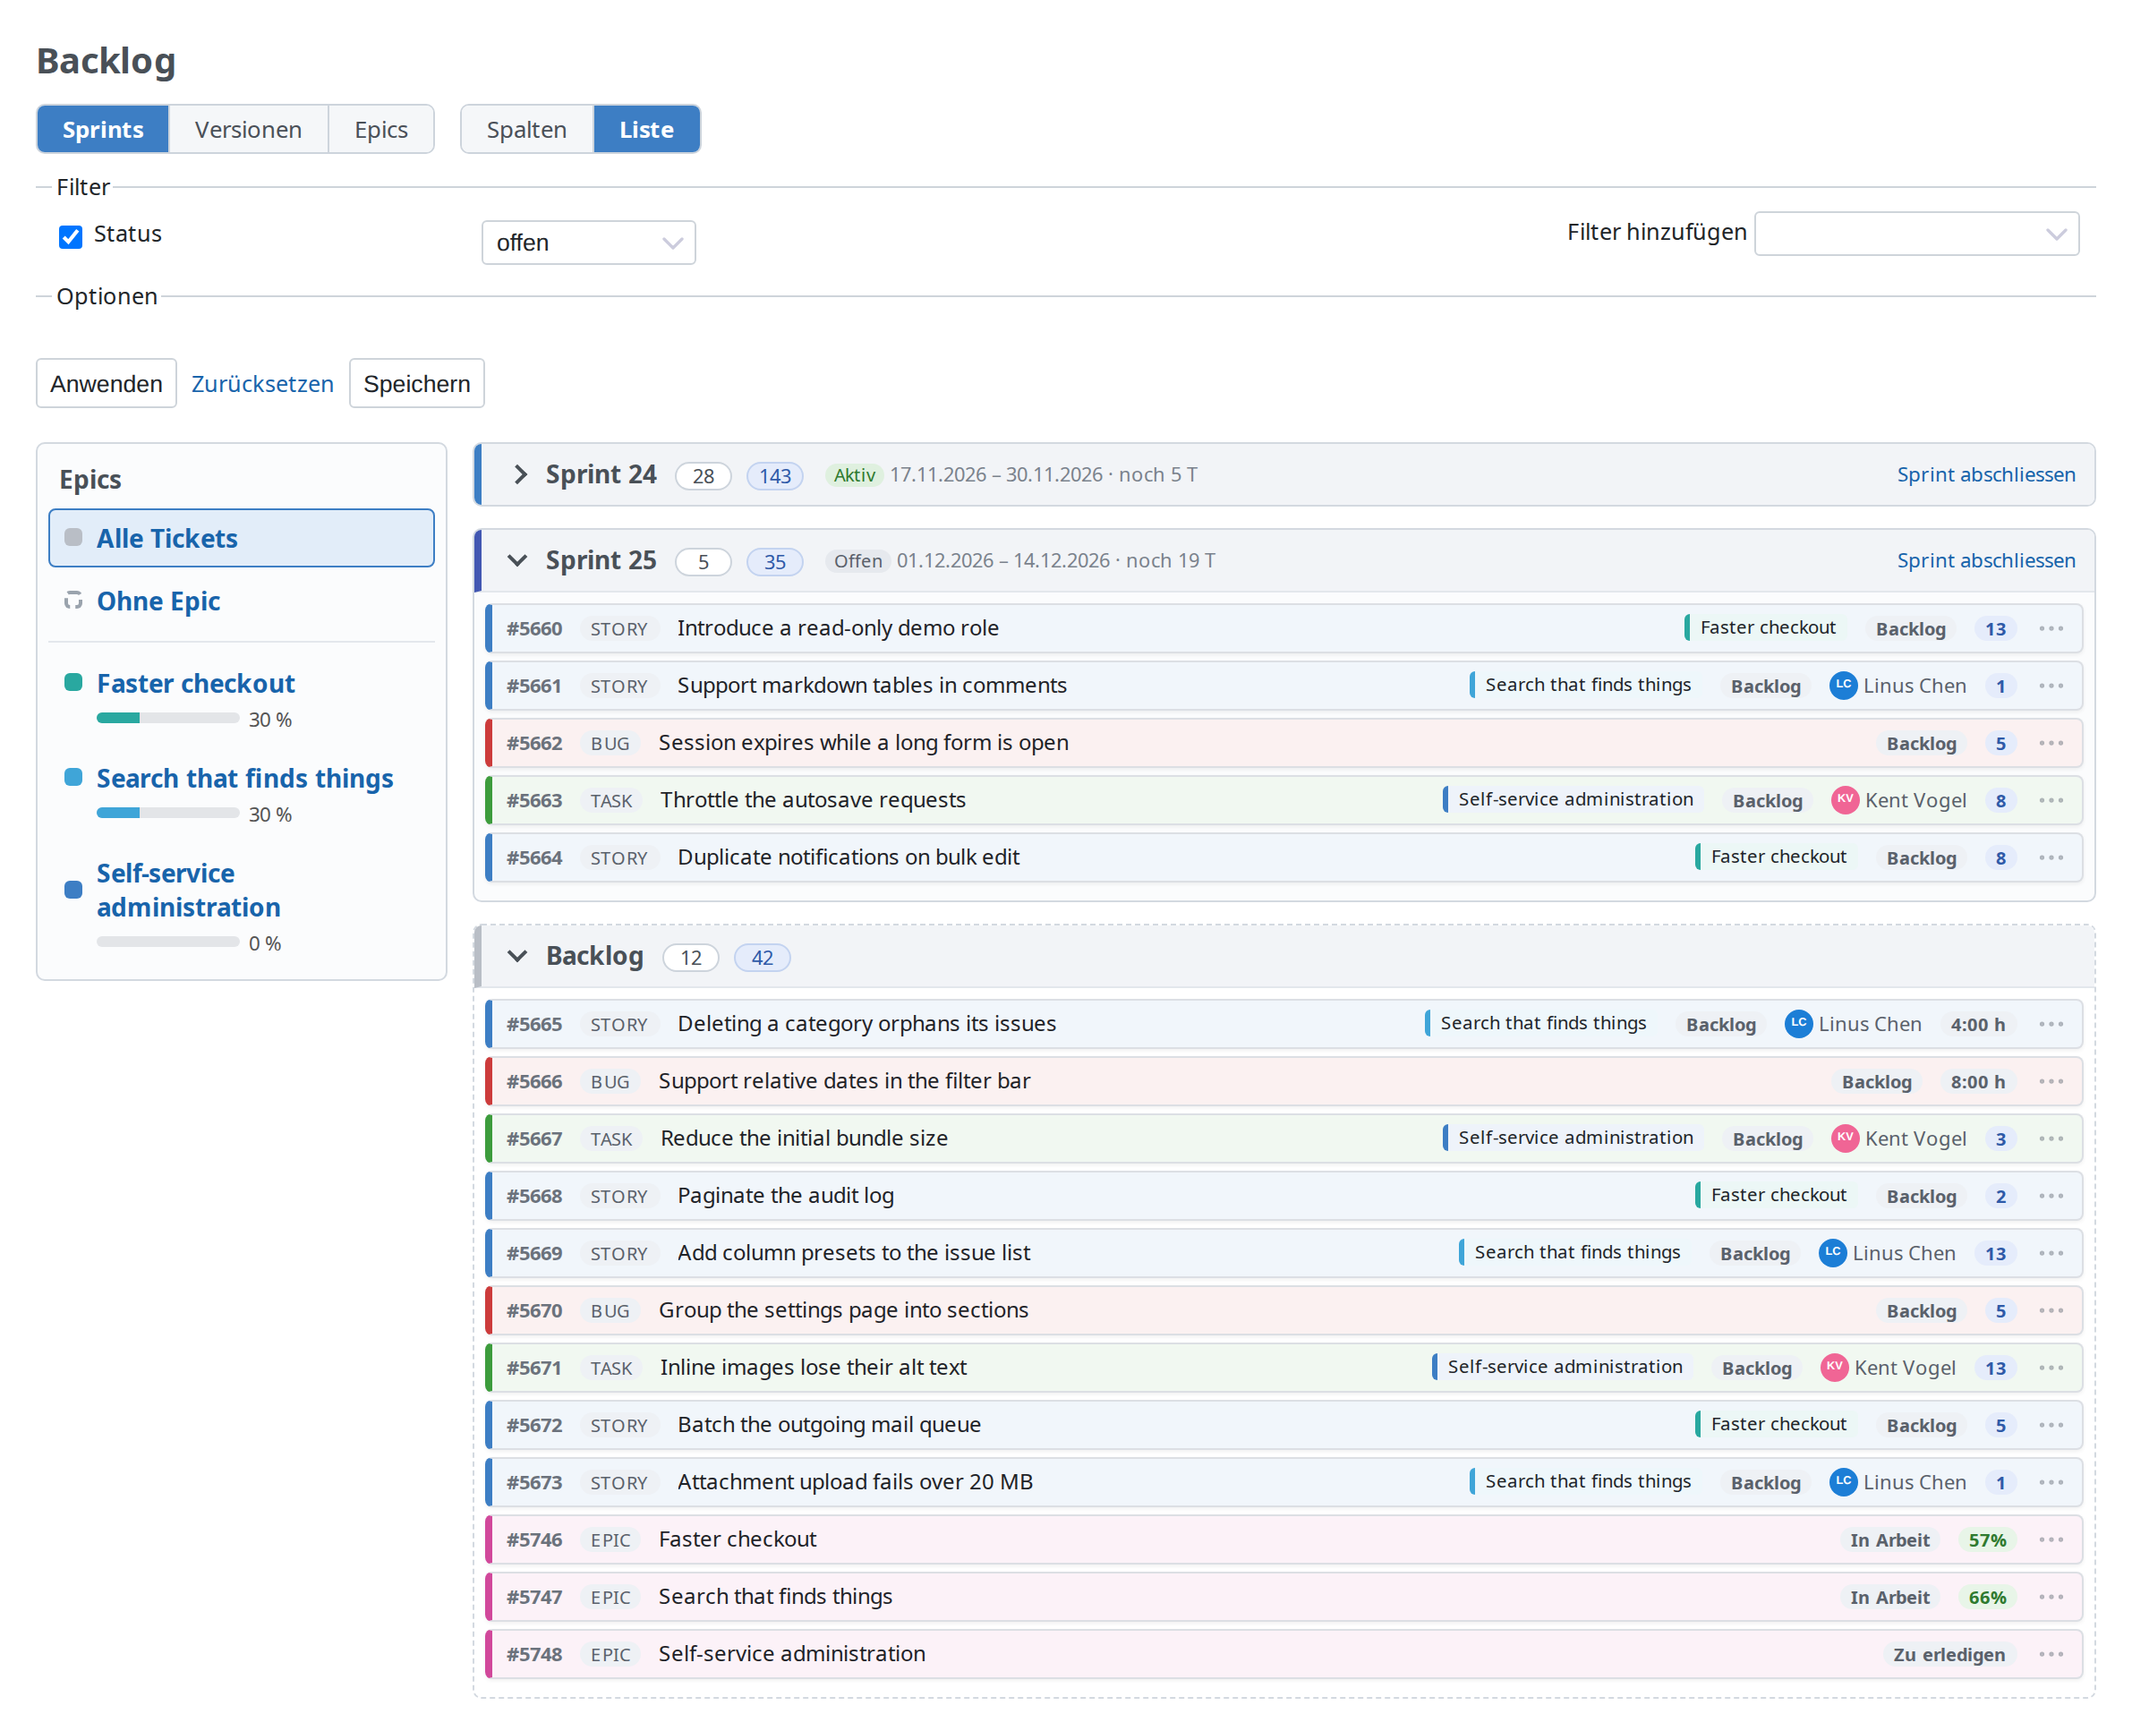
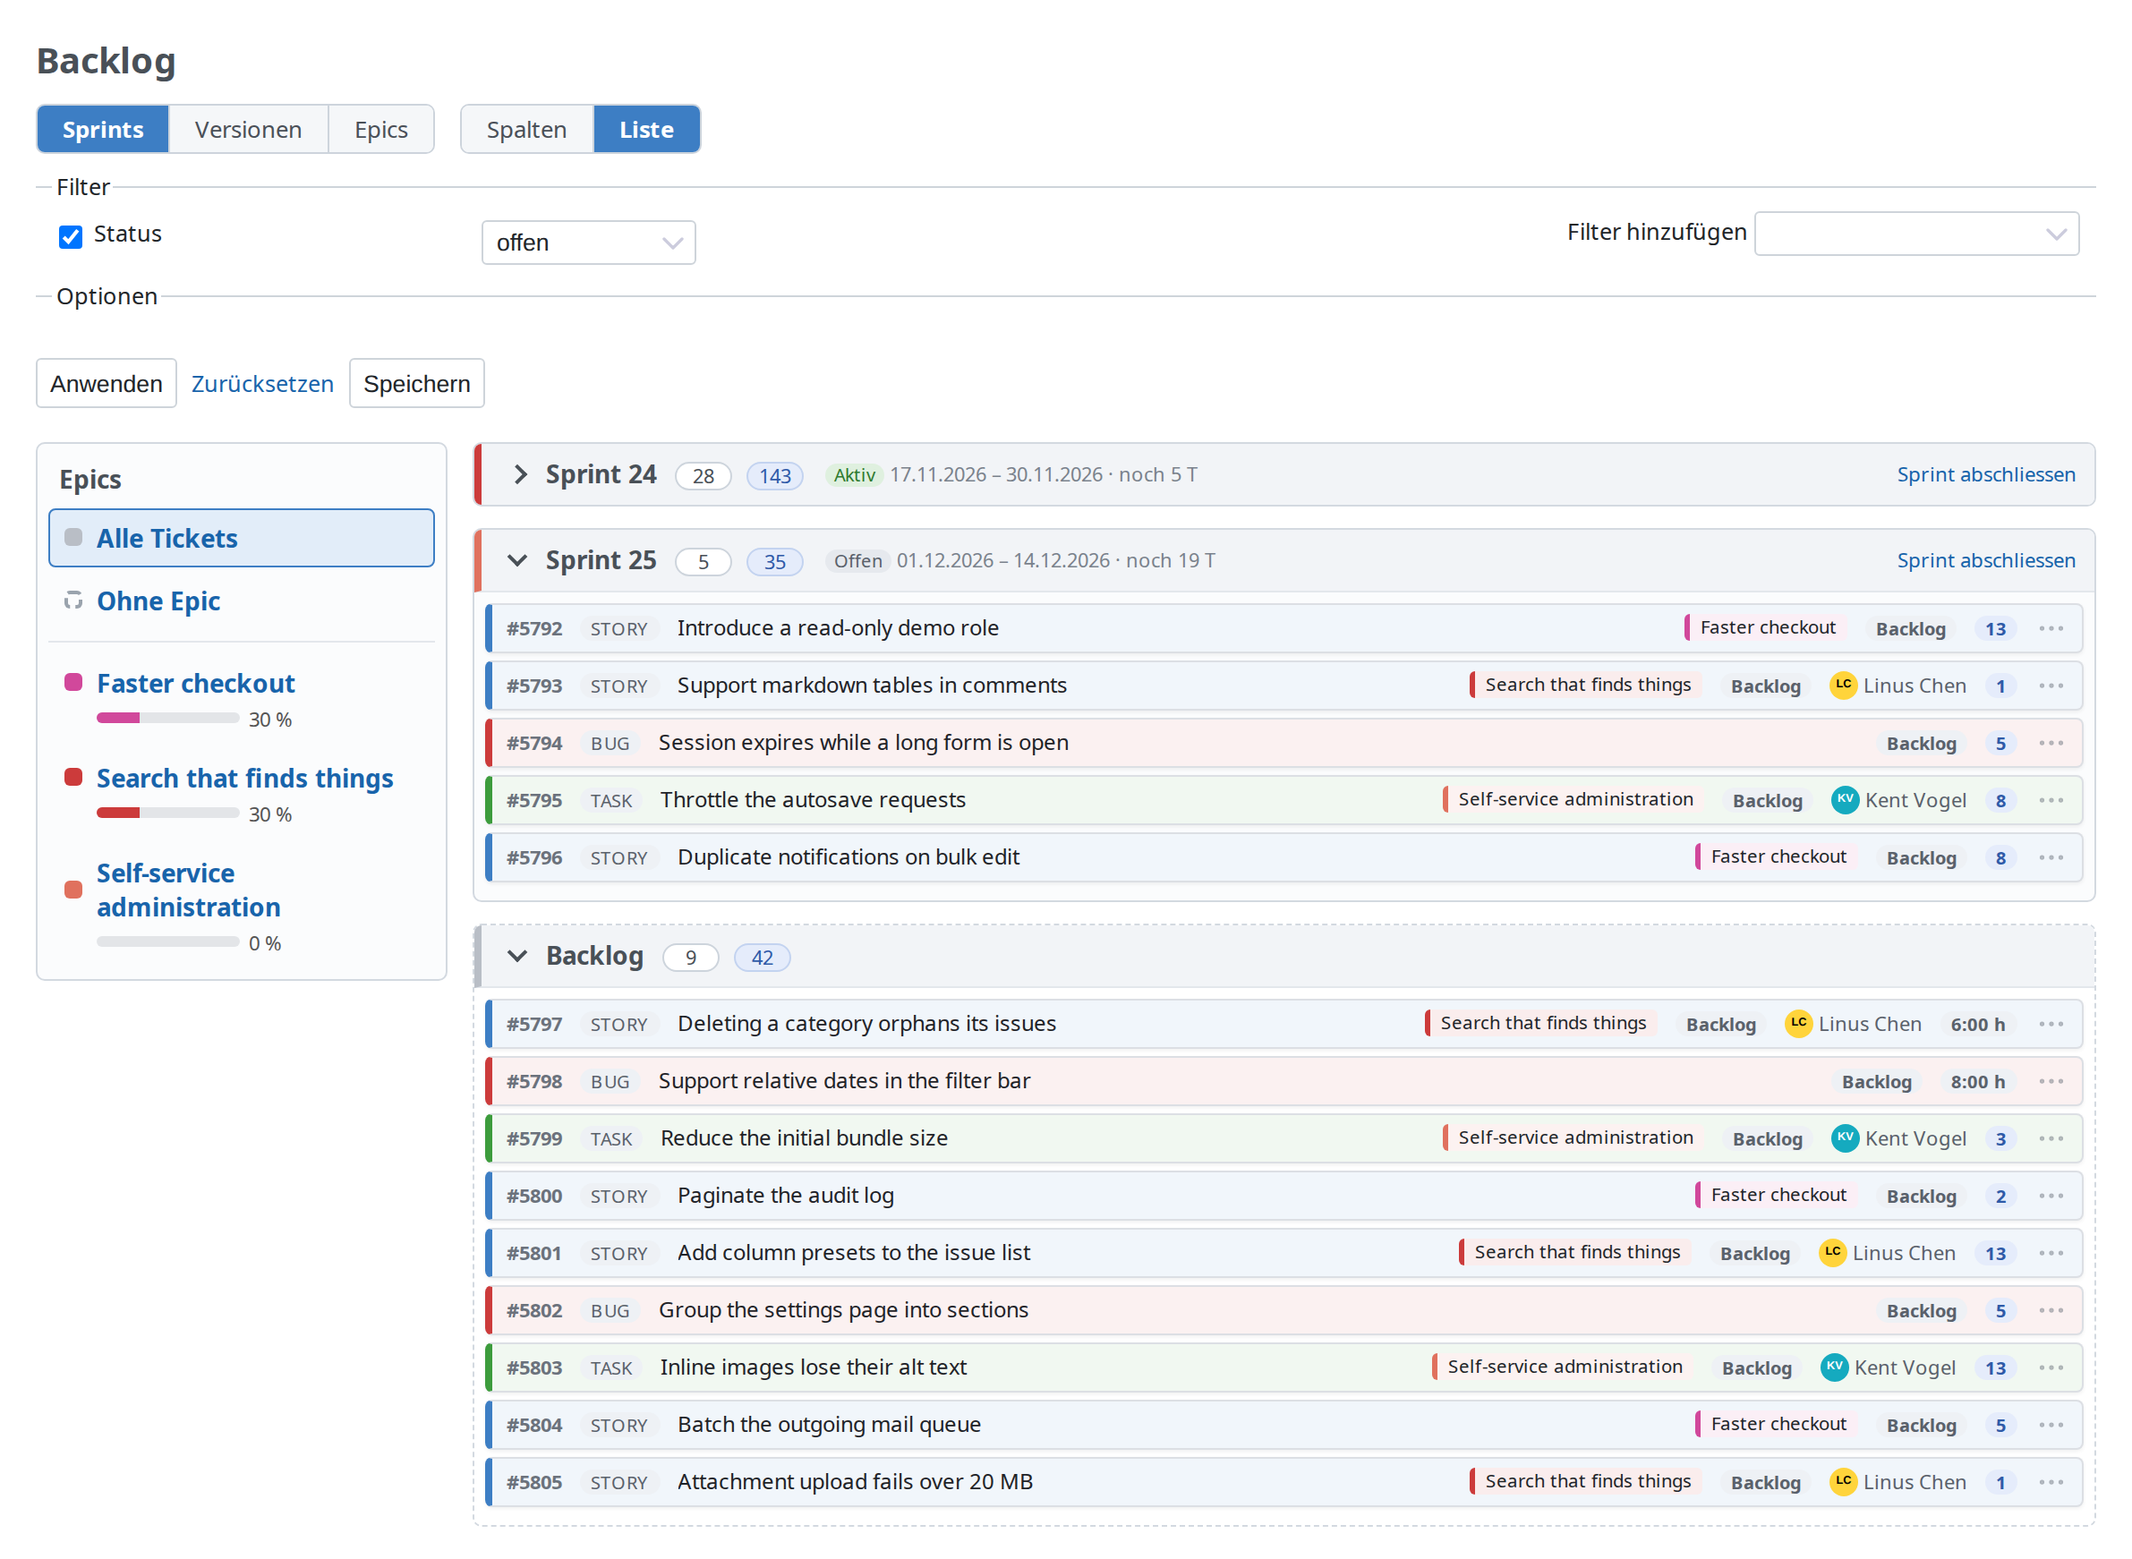
feat: hide epics as cards in the planner, epic badge by default (#85)
* feat: hide epics as cards in the planner, epic badge by default

The backlog planner leaves the epics themselves off its cards by default,
as the board does (hide_epics, on unless switched off): on the sprint and
version tabs the epic panel lists them, so as cards they stood there twice
and even matched "without epic". "Hide epics as cards" in the planner
options brings them back, saved with a planner and kept in the session.

The default card fields now include the epic badge
(tracker,epic,assigned_to); it only shows while epics are on. Installations
that saved their own default card fields keep them.

* test: the epic badge is a default card field while epics are on

---------

Changed region(s): [[0.0, 0.031, 0.9631, 0.992], [0.6835, 0.248, 0.9941, 0.558], [0.7145, 0.124, 0.8388, 0.155]]

diff --git a/test/unit/expert_agile_backlog_query_test.rb b/test/unit/expert_agile_backlog_query_test.rb
@@ -350,6 +350,40 @@ class ExpertAgileBacklogQueryTest < ActiveSupport::TestCase
     end
   end
 
+  # Like the board: the epics themselves are not cards unless asked for.
+  def test_the_planner_leaves_the_epics_out_of_its_cards_unless_asked
+    epic = Issue.generate!(:project => @project, :tracker_id => 2)
+
+    with_epics do
+      query = query_for('sprint')
+      assert query.hide_epics?
+      assert_not_includes query.backlog_issues.map(&:id), epic.id
+      assert_equal query.backlog_issues.size, query.totals_for(nil)[:issue_count]
+
+      query.apply_board_params(:hide_epics => '0')
+      assert_includes query.backlog_issues.map(&:id), epic.id
+    end
+  end
+
+  # The epic badge is a card field a fresh board or planner has without
+  # anyone choosing it, as long as epics are on; without epic trackers the
+  # field is not offered and drops out of the defaults.
+  def test_the_epic_badge_is_a_default_card_field_while_epics_are_on
+    default = RedmineExpertAgile.declared_defaults['default_card_columns']
+    assert_includes default.split(','), 'epic'
+
+    with_agile_settings('default_card_columns' => default, 'epic_tracker_ids' => ['2']) do
+      [ExpertAgileBacklogQuery, ExpertAgileQuery].each do |klass|
+        assert_includes klass.new(:name => '_', :project => @project).card_columns.map(&:name), :epic, klass.name
+      end
+    end
+    with_agile_settings('default_card_columns' => default, 'epic_tracker_ids' => '') do
+      names = ExpertAgileBacklogQuery.new(:name => '_', :project => @project).card_columns.map(&:name)
+      assert_not_includes names, :epic
+      assert_includes names, :assigned_to
+    end
+  end
+
   def test_shows_issue_follows_the_filters
     epic = Issue.generate!(:project => @project, :tracker_id => 2)
     story = Issue.generate!(:project => @project, :tracker_id => 1, :parent_issue_id => epic.id)

diff --git a/app/models/expert_agile_backlog_query.rb b/app/models/expert_agile_backlog_query.rb
@@ -118,7 +118,7 @@ class ExpertAgileBacklogQuery < ExpertAgileQuery
   # Whether an issue still passes the planner's filters, after a change made
   # it from the planner. One that no longer does leaves the screen.
   def shows_issue?(issue)
-    base_scope.where(:id => issue.id).exists?
+    epic_filtered(base_scope).where(:id => issue.id).exists?
   end
 
   # The planner's own part of the options panel. Redmine's build_from_params
@@ -187,9 +187,11 @@ class ExpertAgileBacklogQuery < ExpertAgileQuery
   private
 
   # The planner ignores the board's status columns: an issue is planned
-  # regardless of where it sits in the workflow.
+  # regardless of where it sits in the workflow. Epics are left out of the
+  # cards like on the board (hide_epics, on unless switched off): the epic
+  # panel lists them, and as cards they would stand there twice.
   def planning_scope
-    base_scope.eager_load(:status, :tracker, :priority, :assigned_to, :expert_agile_data)
+    epic_filtered(base_scope).eager_load(:status, :tracker, :priority, :assigned_to, :expert_agile_data)
   end
 
   def filter_by_term(scope, term)

diff --git a/test/functional/expert_agile_backlogs_controller_test.rb b/test/functional/expert_agile_backlogs_controller_test.rb
@@ -930,6 +930,22 @@ class ExpertAgileBacklogsControllerTest < Redmine::ControllerTest
     assert_not_equal epic_b.id, story.reload.parent_id
   end
 
+  def test_the_epic_cards_are_hidden_unless_the_options_bring_them_back
+    epic_a, _epic_b, story = epics!
+
+    with_epics { get :index, :params => { :project_id => @project.id, :container_type => 'sprint' } }
+    assert_select "#ea-card-#{story.id}"
+    assert_select "#ea-card-#{epic_a.id}", 0
+    assert_select 'input[type=checkbox][name=hide_epics][checked=checked]'
+    assert_equal '1', JSON.parse(css_select('#ea-board-data').first.text)['stateParams']['hide_epics']
+
+    with_epics do
+      get :index, :params => { :project_id => @project.id, :set_filter => '1', :container_type => 'sprint',
+                               :hide_epics => '0' }
+    end
+    assert_select "#ea-card-#{epic_a.id}"
+  end
+
   # --- Layout ----------------------------------------------------------------
 
   def test_columns_by_default_with_the_backlog_first

diff --git a/init.rb b/init.rb
@@ -60,7 +60,9 @@ Redmine::Plugin.register :redmine_expert_agile do
            :default => {
              # --- Board -------------------------------------------------
              # Card fields shown by default on a new board (comma separated).
-             'default_card_columns'    => 'tracker,assigned_to',
+             # The epic badge only shows while epics are on; without epic
+             # trackers the field is not offered and simply drops out.
+             'default_card_columns'    => 'tracker,epic,assigned_to',
              # Cards rendered per column before "load more" kicks in.
              'issues_per_column'       => '10',
              # Hard cap on issues pulled into one board render.

diff --git a/app/helpers/expert_agile_backlogs_helper.rb b/app/helpers/expert_agile_backlogs_helper.rb
@@ -96,6 +96,7 @@ module ExpertAgileBacklogsHelper
       :planner_layout => query.planner_layout,
       :color_base => query.color_base,
       :show_avatar => query.show_avatar? ? '1' : '0',
+      :hide_epics => query.hide_epics? ? '1' : '0',
       # The trailing blank keeps the list present when no filter is left, so
       # Redmine applies none rather than its defaults.
       :f => filters.keys + [''],

diff --git a/README.md b/README.md
@@ -129,9 +129,9 @@ points dropdown set to 2 and a Sprint dropdown set to Sprint 24](docs/screenshot
 
 Epics group stories the way Jira does, on top of Redmine's own subtask tree. Pick the epic
 trackers in the plugin settings (*Epics*); an issue then belongs to the nearest epic above it, so
-an epic's stories are its subtasks and their subtasks belong to it as well. Switch on the **Epic**
-card field and every card on the board and in the backlog shows its epic as a coloured badge, one
-colour per epic. The epics themselves stay off the board unless *Hide epics on the board* is
+an epic's stories are its subtasks and their subtasks belong to it as well. The **Epic**
+card field, one of the default card fields, shows every card's epic on the board and in the backlog
+as a coloured badge, one colour per epic. The epics themselves stay off the board unless *Hide epics on the board* is
 switched off in the board options. Group the board by *Epic* for one swimlane per epic; dropping a story into another epic's lane
 moves it there. In the backlog planner, *Epics* plans stories into epics the same way.
 Every epic lane and the epic's issue page show its progress. The *Subtasks* card field folds a story's subtasks out on its card,
@@ -229,6 +229,8 @@ on the page follow — *Without epic* shows the issues that belong to none, and 
 *Without epic* to take it out of its epic; the card stays in its sprint or version, and leaves the
 screen only if it no longer passes the filter. It is the change the *Epics* tab makes, with the
 same checks: the right to manage subtasks, and a story's subtask or an epic is refused by name.
+As on the board, the epics themselves are not cards here, since the panel lists them; *Hide epics as
+cards* in the options brings them back, for instance to drag an epic into a version.
 
 **Columns or list.** *Columns* is the layout above. *List* stacks the lanes at full width, the
 sprints first and the backlog last, with one row per issue, which reads better with long subjects.

diff --git a/README.de.md b/README.de.md
@@ -145,8 +145,8 @@ Auswahlfeld Story Points mit dem Wert 2 und ein Auswahlfeld Sprint mit Sprint 24
 Epics buendeln Stories wie in Jira, auf Grundlage von Redmines eigenem Unteraufgaben-Baum. In den
 Plugin-Einstellungen (*Epics*) werden die Epic-Tracker gewaehlt; ein Ticket gehoert dann zum
 naechsten Epic ueber ihm. Die Stories eines Epics sind also seine Unteraufgaben, und deren
-Unteraufgaben gehoeren ebenfalls dazu. Mit dem Kartenfeld **Epic** zeigt jede Karte auf dem Board
-und im Backlog ihr Epic als farbiges Badge, eine Farbe je Epic. Die Epics selbst stehen nicht auf
+Unteraufgaben gehoeren ebenfalls dazu. Das Kartenfeld **Epic**, eines der Standard-Kartenfelder, zeigt
+auf dem Board und im Backlog an jeder Karte ihr Epic als farbiges Badge, eine Farbe je Epic. Die Epics selbst stehen nicht auf
 dem Board, solange *Epics auf dem Board ausblenden* in den Board-Optionen eingeschaltet ist. Wird das Board nach *Epic* gruppiert, entsteht eine Swimlane je Epic; eine Story in die Lane
 eines anderen Epics zu ziehen verschiebt sie dorthin. Im Backlog-Planer plant *Epics* Stories auf dieselbe Weise in Epics.
 Jede Epic-Lane und die Ticketseite des Epics zeigen seinen Fortschritt. Das Kartenfeld *Unteraufgaben* klappt die Unteraufgaben einer Story auf
@@ -252,6 +252,9 @@ seinem Epic; die Karte bleibt in ihrem Sprint oder ihrer Version und verschwinde
 nicht mehr zum Filter passt. Das ist dieselbe Aenderung wie im Reiter *Epics*, mit denselben
 Pruefungen: das Recht, Unteraufgaben zu verwalten, und Unteraufgaben einer Story sowie Epics werden
 mit Begruendung abgelehnt.
+Wie auf dem Board stehen die Epics selbst hier nicht als Karten, die Leiste listet sie ja;
+*Epics als Karten ausblenden* in den Optionen holt sie zurueck, etwa um ein Epic in eine Version zu
+ziehen.
 
 **Spalten oder Liste.** *Spalten* ist die oben beschriebene Ansicht. *Liste* stellt die Bahnen in
 voller Breite untereinander, die Sprints zuerst und den Backlog zuletzt, mit einer Zeile je Ticket,

diff --git a/CHANGELOG.de.md b/CHANGELOG.de.md
@@ -39,6 +39,17 @@ Release-Workflow die Release-Notes. Diese Datei ist die deutsche Spiegelung.
 - **Redmines Ticket-Kontextmenue auf den Karten des Planers**, wie auf dem Board: Rechtsklick oder
   der ⋯-Knopf; der Planer zeichnet sich nach einer Aenderung an Ort und Stelle neu.
 
+### Geaendert
+
+- **Epics sind im Backlog-Planer standardmaessig keine Karten mehr.** Auf den Reitern *Sprints* und
+  *Versionen* listet die Epic-Leiste sie, daher bleiben die Epics selbst — wie auf dem Board — aus den
+  Bahnen. *Epics als Karten ausblenden* in den Planer-Optionen holt sie zurueck, etwa um ein Epic in
+  eine Version zu ziehen; ein gespeicherter Planer behaelt die Wahl.
+- **Das Kartenfeld Epic ist ein Standard-Kartenfeld.** Die Einstellung *Standard-Kartenfelder* ist
+  jetzt standardmaessig `tracker,epic,assigned_to`; das Badge erscheint nur, solange Epics
+  eingeschaltet sind. Eine Installation, die eigene Standard-Kartenfelder gespeichert hat, behaelt
+  diese — dort `epic` ergaenzen, damit Boards und Planer ohne eigene Feldauswahl das Badge zeigen.
+
 ## [0.12.0] - 2026-11-20
 
 ### Hinzugefuegt

diff --git a/CHANGELOG.md b/CHANGELOG.md
@@ -37,6 +37,17 @@ notes from the section matching the pushed tag.
 - **Redmine's issue context menu on planner cards**, as on the board: right click or the ⋯ button;
   the planner redraws in place after a change.
 
+### Changed
+
+- **Epics are no longer cards in the backlog planner by default.** On the *Sprints* and *Versions*
+  tabs the epic panel lists them, so — as on the board — the epics themselves stay off the lanes.
+  *Hide epics as cards* in the planner options brings them back, for instance to drag an epic into a
+  version; a saved planner keeps the choice.
+- **The Epic card field is a default card field.** The *Default card fields* setting now defaults to
+  `tracker,epic,assigned_to`; the badge only shows while epics are on. An installation that saved
+  its own default card fields keeps them — add `epic` there to get the badge on boards and planners
+  without a field selection of their own.
+
 ## [0.12.0] - 2026-11-20
 
 ### Added
